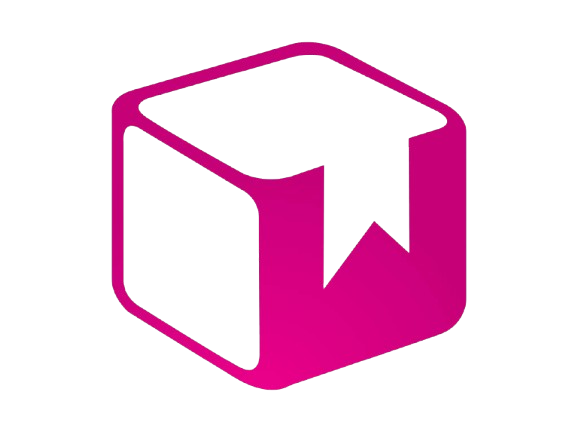
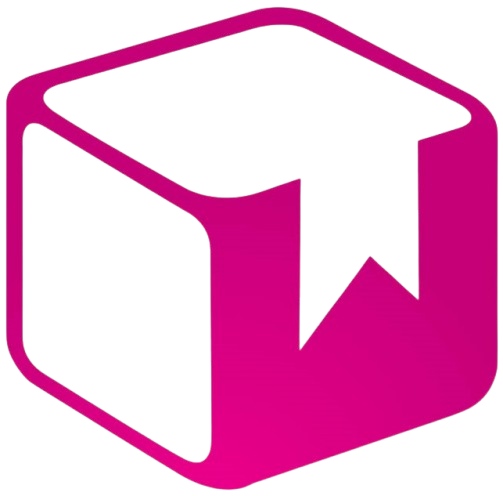
...

diff --git a/app/dashboard.html b/app/dashboard.html
@@ -4,6 +4,7 @@
         <meta charset="UTF-8" />
         <meta name="viewport" content="width=device-width, initial-scale=1.0" />
         <title>Bookmarks Plus</title>
+        <link rel="icon" href="../assets/icon.png" type="image/x-icon" />
         <link rel="stylesheet" href="dashboard.css" />
     </head>
     <body>

diff --git a/app/dashboard.css b/app/dashboard.css
@@ -99,6 +99,7 @@ body {
     border: none;
     border-radius: 5px;
     font-weight: bolder;
+    font-size: large;
     outline: none;
     transition: background 0.3s;
     background-color: var(--border-2);

diff --git a/README.md b/README.md
@@ -1,33 +1,43 @@
 ## Chrome Extension: **Info Manager Tool**
-# ![Bookmarks-plus Banner](assets/banner.png)  
+
+# ![Bookmarks-plus Banner](assets/banner.png)
 
 ### Overview
 
 **Bookmarks-plus** is a Chrome extension that elevates your bookmarking experience. Categorize, tag, and add personalized notes to your bookmarks with ease. With locally stored data, everything is kept secure and private on your device.
+
+![Bookmarks-plus Screeshots](assets/ss1.png)
+
+![Bookmarks-plus Screeshots](assets/ss2.png)
 
 ---
 
 ### Features
 
 #### 1. **Shortcut & Categorization:**
-- Quickly categorize your bookmarks via a shortcut key or create new categories on the fly.
-- Tag bookmarks with multiple keywords and add brief notes/memos for quick reference.
+
+-   Quickly categorize your bookmarks via a shortcut key or create new categories on the fly.
+-   Tag bookmarks with multiple keywords and add brief notes/memos for quick reference.
 
 #### 2. **Local Data Storage:**
-- All bookmark data (categories, tags, and notes) is stored locally in a secure folder, ensuring privacy and fast access.
+
+-   All bookmark data (categories, tags, and notes) is stored locally in a secure folder, ensuring privacy and fast access.
 
 #### 3. **Dashboard:**
-- A sleek, modern dashboard displays all your bookmarks.
-- A dynamic search bar instantly filters results based on categories, tags, or keywords.
+
+-   A sleek, modern dashboard displays all your bookmarks.
+-   A dynamic search bar instantly filters results based on categories, tags, or keywords.
 
 ---
 
 ## Installation
 
 1. Clone or download the repository.
+
 ```
 git clone https://github.com/Madhav-MKNC/bookmarks-plus
 ```
+
 3. Open Chrome and go to `chrome://extensions`.
 4. Enable "Developer mode" at the top right.
 5. Click “Load unpacked” and select the `bookmarks-plus/` folder.
